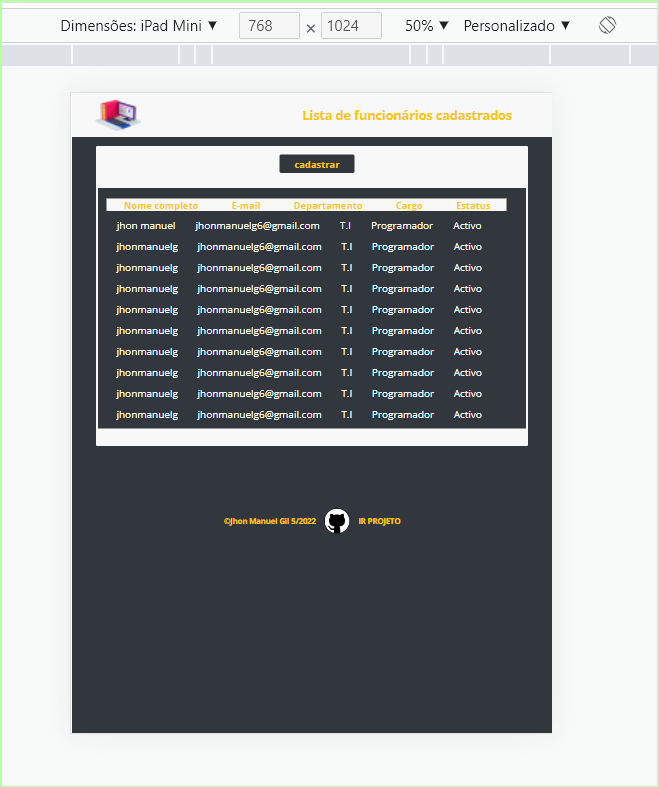
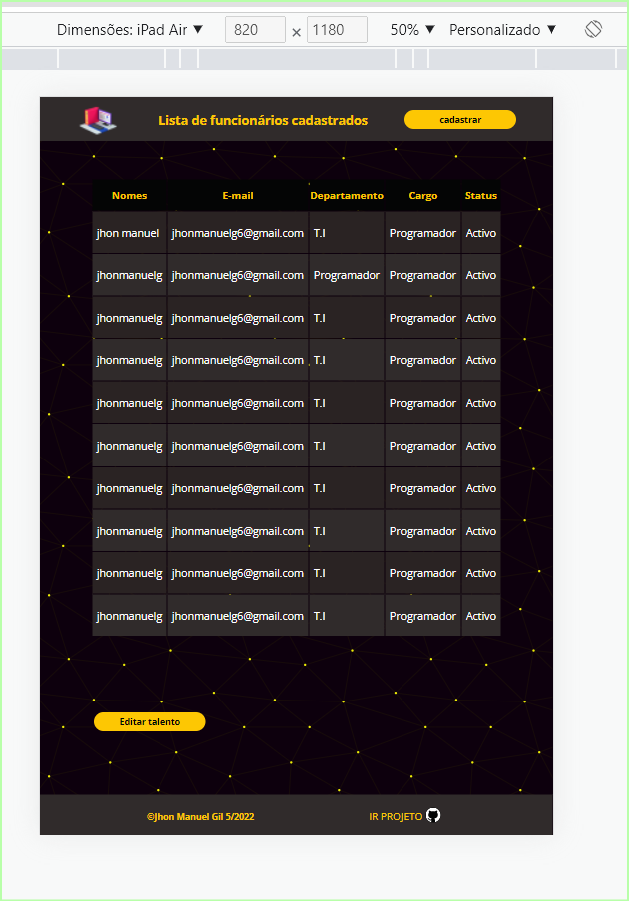
Subindo: modificação Markdown applications

diff --git a/index.html b/index.html
@@ -41,7 +41,7 @@
                 </tr>
                 <div class="tabela">
                     <tr class="nome-lista">
-                        <td>jhon manuel gil</td>
+                        <td>jhon manuel</td>
                         <td>jhonmanuelg6@gmail.com</td>
                         <td>T.I</td>
                         <td>Programador</td>
@@ -51,7 +51,7 @@
                     <tr class="nome-lista">
                         <td>jhonmanuelg</td>
                         <td>jhonmanuelg6@gmail.com</td>
-                        <td>Programador JR</td>
+                        <td>Programador</td>
                         <td>Programador</td>
                         <td>Activo</td>
                     </tr>

diff --git a/css/style.css b/css/style.css
@@ -202,6 +202,13 @@ header {
 }
 
 @media (max-width: 920px) {
+
+    .container-lista{
+        height: 744px;
+    }
+    .tabela-title th {
+        font-size: 16px;
+    }
     .footer {
         margin-top: 102px;
 
@@ -240,6 +247,9 @@ header {
     header{
         height: 90px;
     }
+    .container-lista{
+        height: 454px;
+    }
     .container-title h1{
         margin-top: 6px;
         font-size: 17px;
@@ -251,13 +261,13 @@ header {
     }
 
     .tabela-title th {
-        font-size: 10px;
+        font-size: 12px;
     }
     .nome-lista {
 
         font-size: 9px;
     }
     .footer{
-        margin-top: 82px;
+        margin-top: 105px;
     }
 }

diff --git a/cadastro.html b/cadastro.html
@@ -240,6 +240,7 @@
                 <div class="inputBox">
                     <input type="text" name="ciudade" id="ciudade" required>
                     <label for="ciudade">Cidade</label>
+                    
                 </div>
 
                 <div class="inputBox">

diff --git a/README.md b/README.md
@@ -1,28 +1,44 @@
-# A empresa TechParaTodos está em fase de expansão
+# Projeto A empresa TechParaTodos está em fase de expansão
 # Lista de funcionários cadastrados
 
 ### Fotos responcivo 1:
 
-![foto, web](img/proj2.1.png)
+------
+![web](img/proj1.png)
 
------
-![foto, web iPAD](img/proj2.2.png)
+--------------
 
------
-![foto, web mobile](img/proj2.3.png)
+![foto, web iPAD](img/proj2.png)
 
 ------
+
+![Mibile, web](img/proj3.png)
+
+-----
+
+
+
 ### Fotos responcivo 2:
 
+----
 ![foto, web](img/proj2.1.png)
 
-----------
+---------
 
 ![foto, web iPAD](img/proj2.2.png)
 
 ------
 
-![foto, web mobile](img/proj2.3.png)
+* Mobile.
+
+![Mobile](img/mobile01.png)
+
+![Mobile, 2](img/mobile02.png)
+
+![Mobile, 3](img/mobile03.png)
+
+
+-------
 
 * Link do desafio: [desafio](https://jhonmanuelg.github.io/lista-de-funcionarios-cadastrados/) 
 
